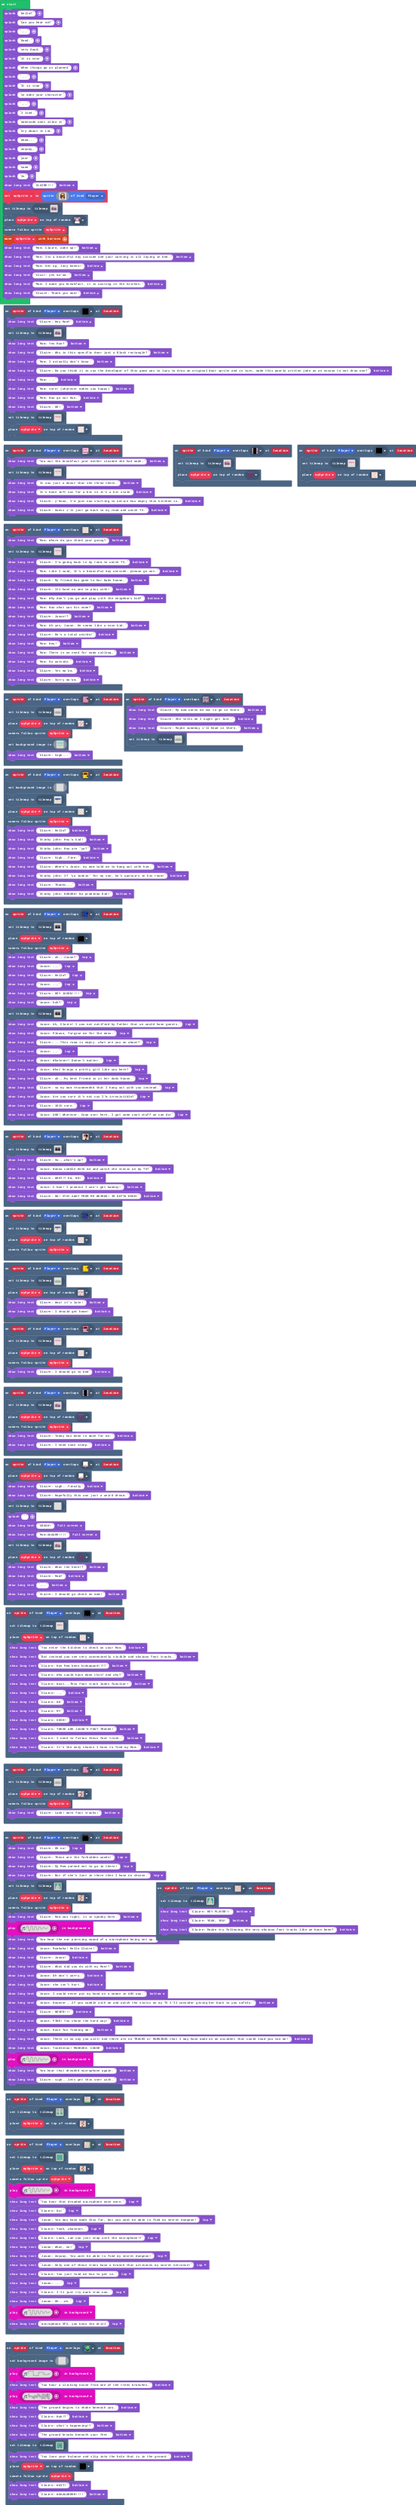
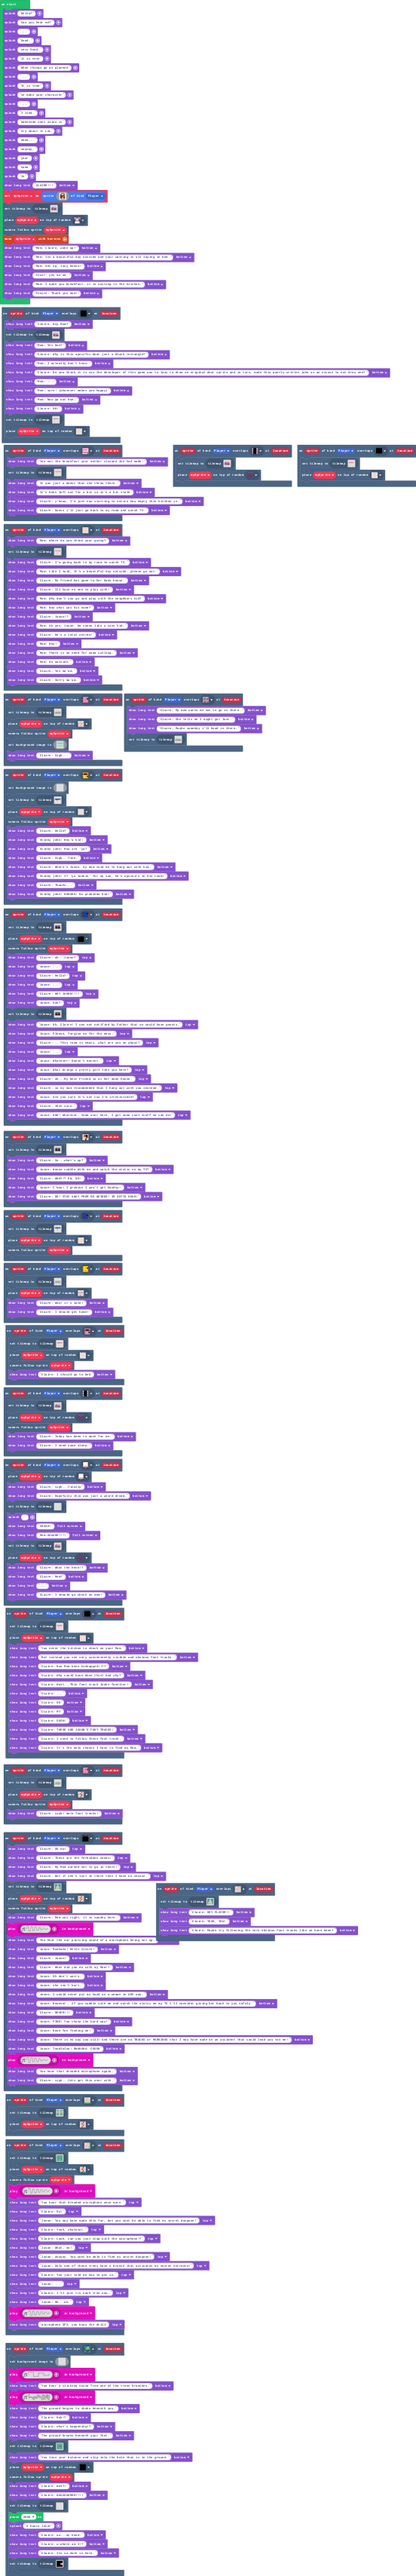
Update main.blocks, main.ts, tilemap.g.jres, tilemap.g.ts

Changed region(s): [[0.0, 0.0, 1.0, 1.0], [0.4312, 0.6199, 0.462, 0.6819]]

diff --git a/tilemap.g.ts b/tilemap.g.ts
@@ -244,6 +244,8 @@ namespace myTiles {
     export const tile120 = image.ofBuffer(hex``);
     //% fixedInstance jres blockIdentity=images._tile
     export const tile121 = image.ofBuffer(hex``);
+    //% fixedInstance jres blockIdentity=images._tile
+    export const tile122 = image.ofBuffer(hex``);
 
     helpers._registerFactory("tilemap", function(name: string) {
         switch(helpers.stringTrim(name)) {
@@ -583,44 +585,6 @@ namespace myTiles {
 2222222222222....2222222222222
 2222222222222....2222222222222
 `, [myTiles.transparency16,myTiles.tile103,myTiles.tile104,sprites.castle.tileDarkGrass3,sprites.castle.tilePath5,myTiles.tile113,myTiles.tile109,myTiles.tile114,myTiles.tile115,myTiles.tile116,myTiles.tile117,myTiles.tile118,myTiles.tile119], TileScale.Sixteen);
-            case "level4":
-            case "level4":return tiles.createTilemap(hex`1000100000000000000000000000000000000000000000000000000000000000000000000000000000000000000000000000000000000000000000000000000000000000000000000000000000000000000000000000000000000000000000000000000000000000000000000000000000000000000000000000000000000000000000000000000000000000000000000000000000000000000000000000000000000000000000000000000000000000000000000000000000000000000000000000000000000000000000000000000000000000000000000000000000000000000000000000000000000000000000000000000000000000000000000000000000000000`, img`
-. . . . . . . . . . . . . . . . 
-. . . . . . . . . . . . . . . . 
-. . . . . . . . . . . . . . . . 
-. . . . . . . . . . . . . . . . 
-. . . . . . . . . . . . . . . . 
-. . . . . . . . . . . . . . . . 
-. . . . . . . . . . . . . . . . 
-. . . . . . . . . . . . . . . . 
-. . . . . . . . . . . . . . . . 
-. . . . . . . . . . . . . . . . 
-. . . . . . . . . . . . . . . . 
-. . . . . . . . . . . . . . . . 
-. . . . . . . . . . . . . . . . 
-. . . . . . . . . . . . . . . . 
-. . . . . . . . . . . . . . . . 
-. . . . . . . . . . . . . . . . 
-`, [myTiles.transparency16], TileScale.Sixteen);
-            case "level5":
-            case "level5":return tiles.createTilemap(hex`1000100000000000000000000000000000000000000000000000000000000000000000000000000000000000000000000000000000000000000000000000000000000000000000000000000000000000000000000000000000000000000000000000000000000000000000000000000000000000000000000000000000000000000000000000000000000000000000000000000000000000000000000000000000000000000000000000000000000000000000000000000000000000000000000000000000000000000000000000000000000000000000000000000000000000000000000000000000000000000000000000000000000000000000000000000000000000`, img`
-. . . . . . . . . . . . . . . . 
-. . . . . . . . . . . . . . . . 
-. . . . . . . . . . . . . . . . 
-. . . . . . . . . . . . . . . . 
-. . . . . . . . . . . . . . . . 
-. . . . . . . . . . . . . . . . 
-. . . . . . . . . . . . . . . . 
-. . . . . . . . . . . . . . . . 
-. . . . . . . . . . . . . . . . 
-. . . . . . . . . . . . . . . . 
-. . . . . . . . . . . . . . . . 
-. . . . . . . . . . . . . . . . 
-. . . . . . . . . . . . . . . . 
-. . . . . . . . . . . . . . . . 
-. . . . . . . . . . . . . . . . 
-. . . . . . . . . . . . . . . . 
-`, [myTiles.transparency16], TileScale.Sixteen);
             case "Jasons castle opening cutscene":
[1 lines of base64/hex data omitted]
 222222222222222222222222222222
@@ -654,6 +618,44 @@ namespace myTiles {
 2222222222222....2222222222222
 2222222222222....2222222222222
 `, [myTiles.transparency16,myTiles.tile103,myTiles.tile104,sprites.castle.tileDarkGrass3,sprites.castle.tilePath5,myTiles.tile113,myTiles.tile109,myTiles.tile114,myTiles.tile115,myTiles.tile116,myTiles.tile119,sprites.dungeon.purpleOuterNorthWest,sprites.dungeon.purpleOuterNorth1,sprites.dungeon.purpleOuterNorthEast,sprites.dungeon.purpleInnerNorthEast,sprites.dungeon.purpleInnerSouthWest,sprites.dungeon.purpleOuterEast0,sprites.dungeon.purpleOuterSouthEast,sprites.dungeon.purpleOuterSouthWest,sprites.dungeon.purpleOuterSouth1,sprites.dungeon.purpleInnerNorthWest,sprites.dungeon.purpleOuterWest1,myTiles.tile120,myTiles.tile121], TileScale.Sixteen);
+            case "Dungeon level dark":
[1 lines of base64/hex data omitted]
+. . . . . . . . . . . . . . . . 
+. . . . . . . . . . . . . . . . 
+. . . . . . . . . . . . . . . . 
+. . . . . . . . . . . . . . . . 
+. . . . . . . . . . . . . . . . 
+2 2 2 2 2 2 2 2 2 2 2 2 2 2 2 2 
+. . . . . . . . . . . . . . . 2 
+. . . . . . . . . . . . . . . . 
+. . . . . . . . . . . . . . . 2 
+. . . . . . . . . . . . . . . 2 
+. . . . . . . . . . . . . . . 2 
+2 2 2 2 2 2 2 2 2 2 2 2 2 2 2 2 
+. . . . . . . . . . . . . . . . 
+. . . . . . . . . . . . . . . . 
+. . . . . . . . . . . . . . . . 
+. . . . . . . . . . . . . . . . 
+`, [myTiles.transparency16,myTiles.tile120,myTiles.tile121,sprites.dungeon.floorDark0,sprites.dungeon.purpleOuterNorth1,sprites.dungeon.purpleOuterNorthEast,sprites.dungeon.purpleOuterEast0,sprites.dungeon.purpleOuterSouthWest,sprites.dungeon.purpleOuterSouth1,sprites.dungeon.floorLight4,sprites.dungeon.purpleOuterEast2,myTiles.tile122,sprites.dungeon.doorLockedEast], TileScale.Sixteen);
+            case "level4":
+            case "level4":return tiles.createTilemap(hex`1000100000000000000000000000000000000000000000000000000000000000000000000000000000000000000000000000000000000000000000000000000000000000000000000000000000000000000000000000000000000000000000000000000000000000000000000000000000000000000000000000000000000000000000000000000000000000000000000000000000000000000000000000000000000000000000000000000000000000000000000000000000000000000000000000000000000000000000000000000000000000000000000000000000000000000000000000000000000000000000000000000000000000000000000000000000000000`, img`
+. . . . . . . . . . . . . . . . 
+. . . . . . . . . . . . . . . . 
+. . . . . . . . . . . . . . . . 
+. . . . . . . . . . . . . . . . 
+. . . . . . . . . . . . . . . . 
+. . . . . . . . . . . . . . . . 
+. . . . . . . . . . . . . . . . 
+. . . . . . . . . . . . . . . . 
+. . . . . . . . . . . . . . . . 
+. . . . . . . . . . . . . . . . 
+. . . . . . . . . . . . . . . . 
+. . . . . . . . . . . . . . . . 
+. . . . . . . . . . . . . . . . 
+. . . . . . . . . . . . . . . . 
+. . . . . . . . . . . . . . . . 
+. . . . . . . . . . . . . . . . 
+`, [myTiles.transparency16], TileScale.Sixteen);
         }
         return null;
     })
@@ -903,6 +905,8 @@ namespace myTiles {
             case "tile120":return tile120;
             case "myTile119":
             case "tile121":return tile121;
+            case "myTile120":
+            case "tile122":return tile122;
         }
         return null;
     })

diff --git a/main.ts b/main.ts
@@ -111,6 +111,13 @@ scene.onOverlapTile(SpriteKind.Player, assets.tile`myTile111`, function (sprite,
     scene.cameraFollowSprite(mySprite)
     game.showLongText("Claire: WAIT!", DialogLayout.Bottom)
     game.showLongText("Claire: WAAAAAHHHH!!!!", DialogLayout.Bottom)
+    tiles.setCurrentTilemap(tilemap`NAP`)
+    pause(2000)
+    game.splash("2 hours later")
+    game.showLongText("Claire: ow...my head.", DialogLayout.Bottom)
+    game.showLongText("Claire: w-where am I!?", DialogLayout.Bottom)
+    game.showLongText("Claire: Its so dark in here.", DialogLayout.Bottom)
+    tiles.setCurrentTilemap(tilemap`Dungeon level dark`)
 })
 scene.onOverlapTile(SpriteKind.Player, assets.tile`myTile91`, function (sprite, location) {
     tiles.setCurrentTilemap(tilemap`Claires room no mom`)
